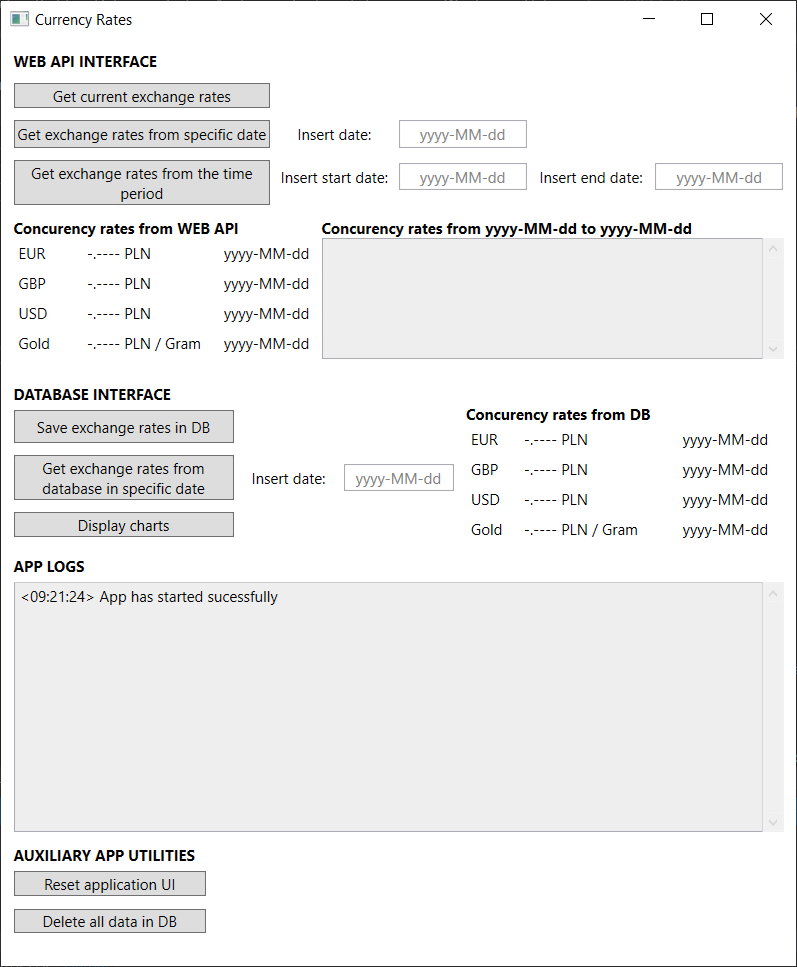
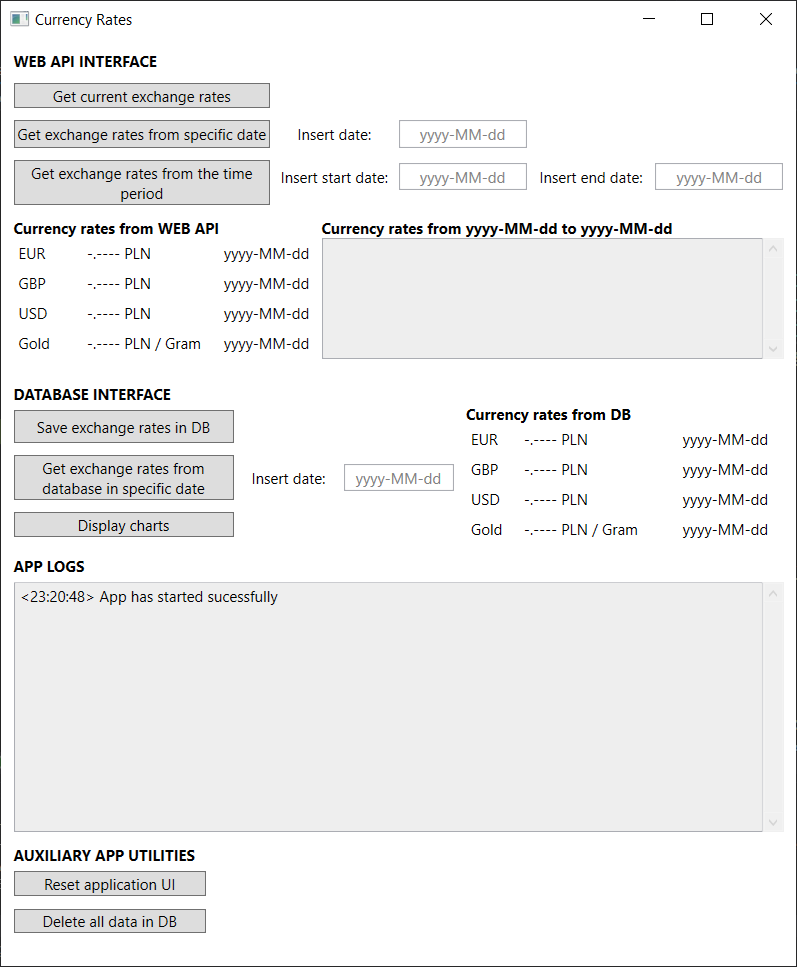
Update literal error in UI

diff --git a/CurrencyRates/MainWindow.xaml b/CurrencyRates/MainWindow.xaml
@@ -150,7 +150,7 @@
 
             </Grid>
 
-            <!-- Concurency Rates From WEB API-->
+            <!-- Currency Rates From WEB API-->
             <Grid Margin="0 10 0 10">
                 <Grid.ColumnDefinitions>
                     <ColumnDefinition Width="4*"/>
@@ -167,7 +167,7 @@
                     >
                     <TextBlock 
                         Name="textBlock_DateOfDataFromWebAPI"
-                        Text="Concurency rates from WEB API" 
+                        Text="Currency rates from WEB API" 
                         FontWeight="Bold" 
                         TextWrapping="Wrap"
                     />
@@ -283,7 +283,7 @@
                     >
                     <TextBlock 
                         Name="textBlock_LogerForDatabaseData"
-                        Text="Concurency rates from yyyy-MM-dd to yyyy-MM-dd" 
+                        Text="Currency rates from yyyy-MM-dd to yyyy-MM-dd" 
                         FontWeight="Bold" 
                         TextWrapping="Wrap"
                     />
@@ -411,7 +411,7 @@
                     Margin="10 0 0 0">
                     <TextBlock 
                         Name="textBlock_DateOfDataFromDatabase"
-                        Text="Concurency rates from DB" 
+                        Text="Currency rates from DB" 
                         FontWeight="Bold" 
                         TextWrapping="Wrap"
                     />

diff --git a/CurrencyRates/MainWindow.xaml.cs b/CurrencyRates/MainWindow.xaml.cs
@@ -88,7 +88,7 @@ namespace CurrencyRates
             textBlock_Gold_RateFromWebAPI_Date.Text = GoldDate.ToString(InputValidator.DATE_FORMAT);
 
             // Clear database loger
-            textBlock_LogerForDatabaseData.Text = "Concurency rates from " + InputValidator.DATE_FORMAT + " to " + InputValidator.DATE_FORMAT;
+            textBlock_LogerForDatabaseData.Text = "Currency rates from " + InputValidator.DATE_FORMAT + " to " + InputValidator.DATE_FORMAT;
             textBox_DatabaseLoger.Text = "";
         }
 
@@ -145,7 +145,7 @@ namespace CurrencyRates
                 textBlock_Gold_RateFromWebAPI_Date.Text = inputDate;
 
                 // Clear database loger
-                textBlock_LogerForDatabaseData.Text = "Concurency rates from " + InputValidator.DATE_FORMAT + " to " + InputValidator.DATE_FORMAT;
+                textBlock_LogerForDatabaseData.Text = "Currency rates from " + InputValidator.DATE_FORMAT + " to " + InputValidator.DATE_FORMAT;
                 textBox_DatabaseLoger.Text = "";
             }
             else if (!isInputDateFormatValid)
@@ -214,7 +214,7 @@ namespace CurrencyRates
 
 
                 // Update UI
-                textBlock_LogerForDatabaseData.Text = "Concurency rates from " + inputStartDate + " to " + inputEndDate;
+                textBlock_LogerForDatabaseData.Text = "Currency rates from " + inputStartDate + " to " + inputEndDate;
                 // Reset currency rates from web API
                 textBlock_EUR_RateFromWebAPI.Text = CURRENCY_RATE_FORMAT + " PLN";
                 textBlock_GBP_RateFromWebAPI.Text = CURRENCY_RATE_FORMAT + " PLN";
@@ -270,9 +270,9 @@ namespace CurrencyRates
             resetTextBoxInsertDate(textBox_insertDate_4);
 
             // Reset labeles
-            textBlock_DateOfDataFromWebAPI.Text = "Concurency rates from WEB API";
-            textBlock_LogerForDatabaseData.Text = "Concurency rates from " + InputValidator.DATE_FORMAT + " to " + InputValidator.DATE_FORMAT;
-            textBlock_DateOfDataFromDatabase.Text = "Concurency rates from DB";
+            textBlock_DateOfDataFromWebAPI.Text = "Currency rates from WEB API";
+            textBlock_LogerForDatabaseData.Text = "Currency rates from " + InputValidator.DATE_FORMAT + " to " + InputValidator.DATE_FORMAT;
+            textBlock_DateOfDataFromDatabase.Text = "Currency rates from DB";
 
             // Reset currency rates from web API
             textBlock_EUR_RateFromWebAPI.Text = CURRENCY_RATE_FORMAT + " PLN";
